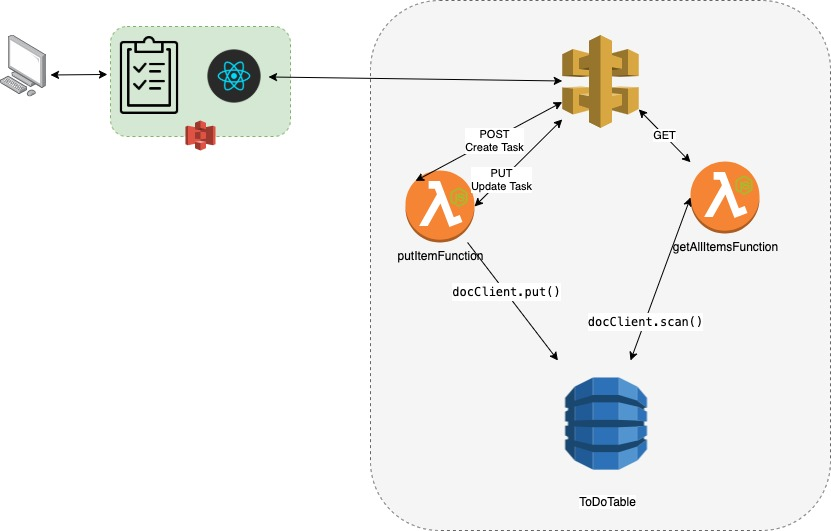
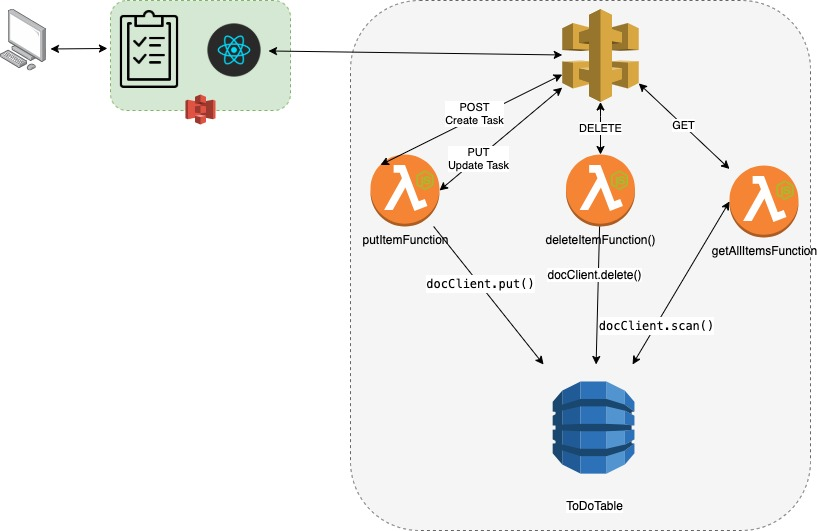
CLEANUP: remove aws folder for unneed policies, update diagrams, code cleanuo 	deleted:    aws/iam/policies/set_policy.json 	deleted:    aws/iam/policies/trusted_entity.json 	deleted:    "\\"
modified:   serverless-todo.drawio
	modified:   serverless-todo.jpg

	modified:   backend/src/handlers/delete-item.js

diff --git a/backend/src/handlers/delete-item.js b/backend/src/handlers/delete-item.js
@@ -29,10 +29,6 @@ exports.putItemHandler = async (event) => {
         TableName : tableName,
         Key: { 
           id: id
-          // ,
-          // "task": {
-          //   S: task
-          // }
         }
     };
 
